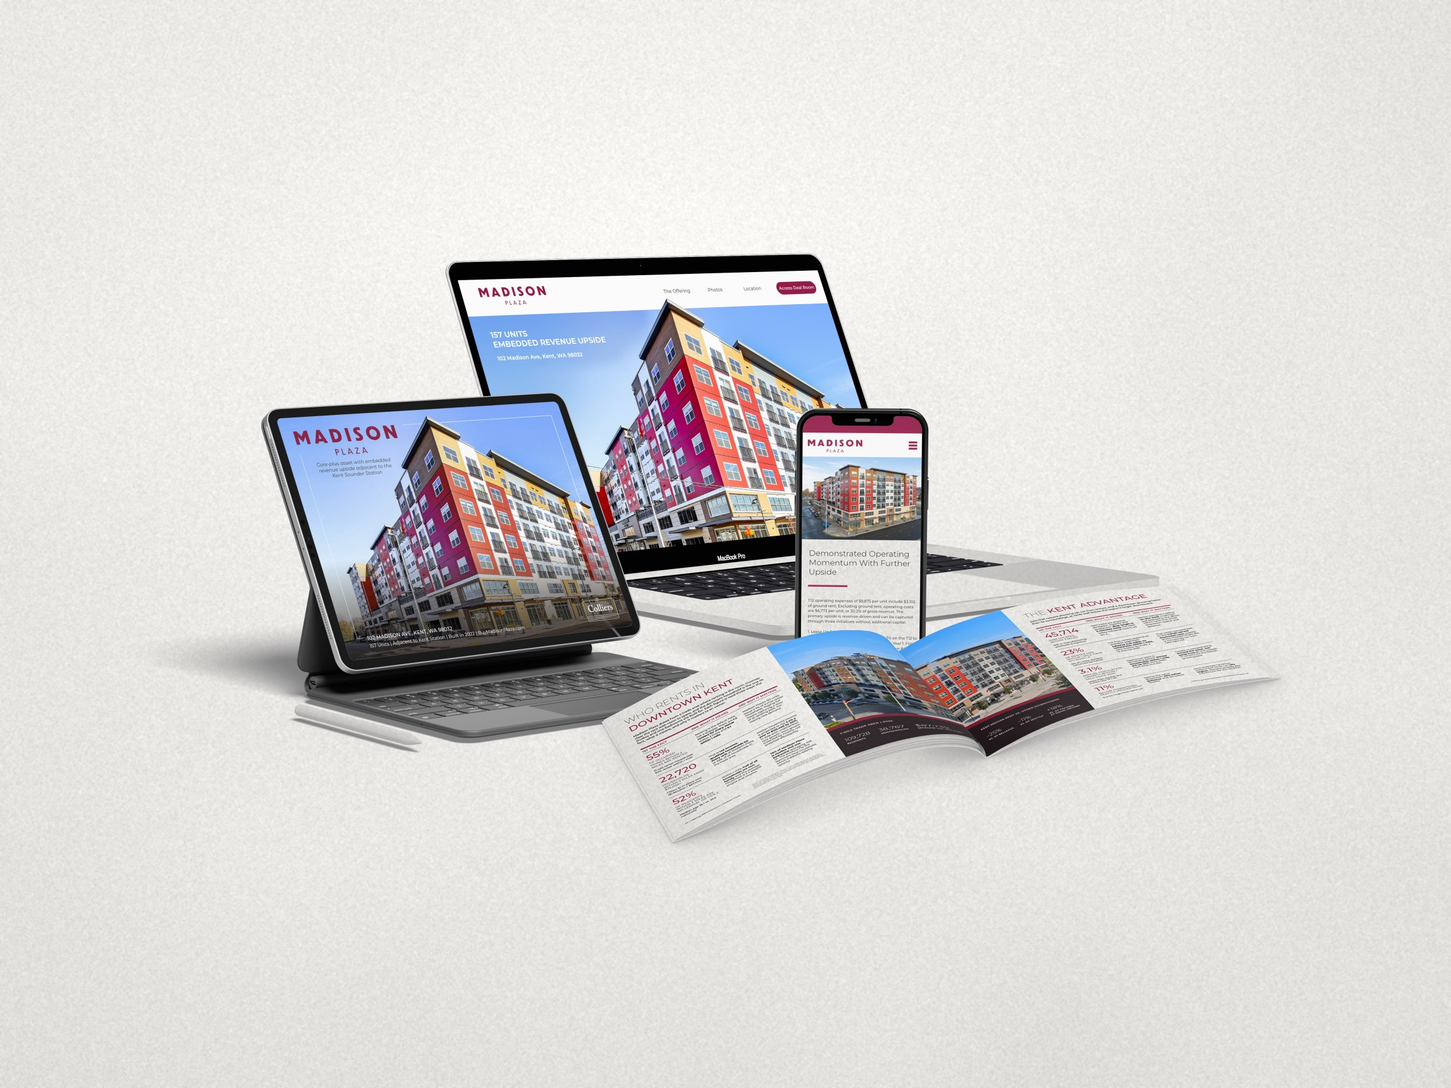
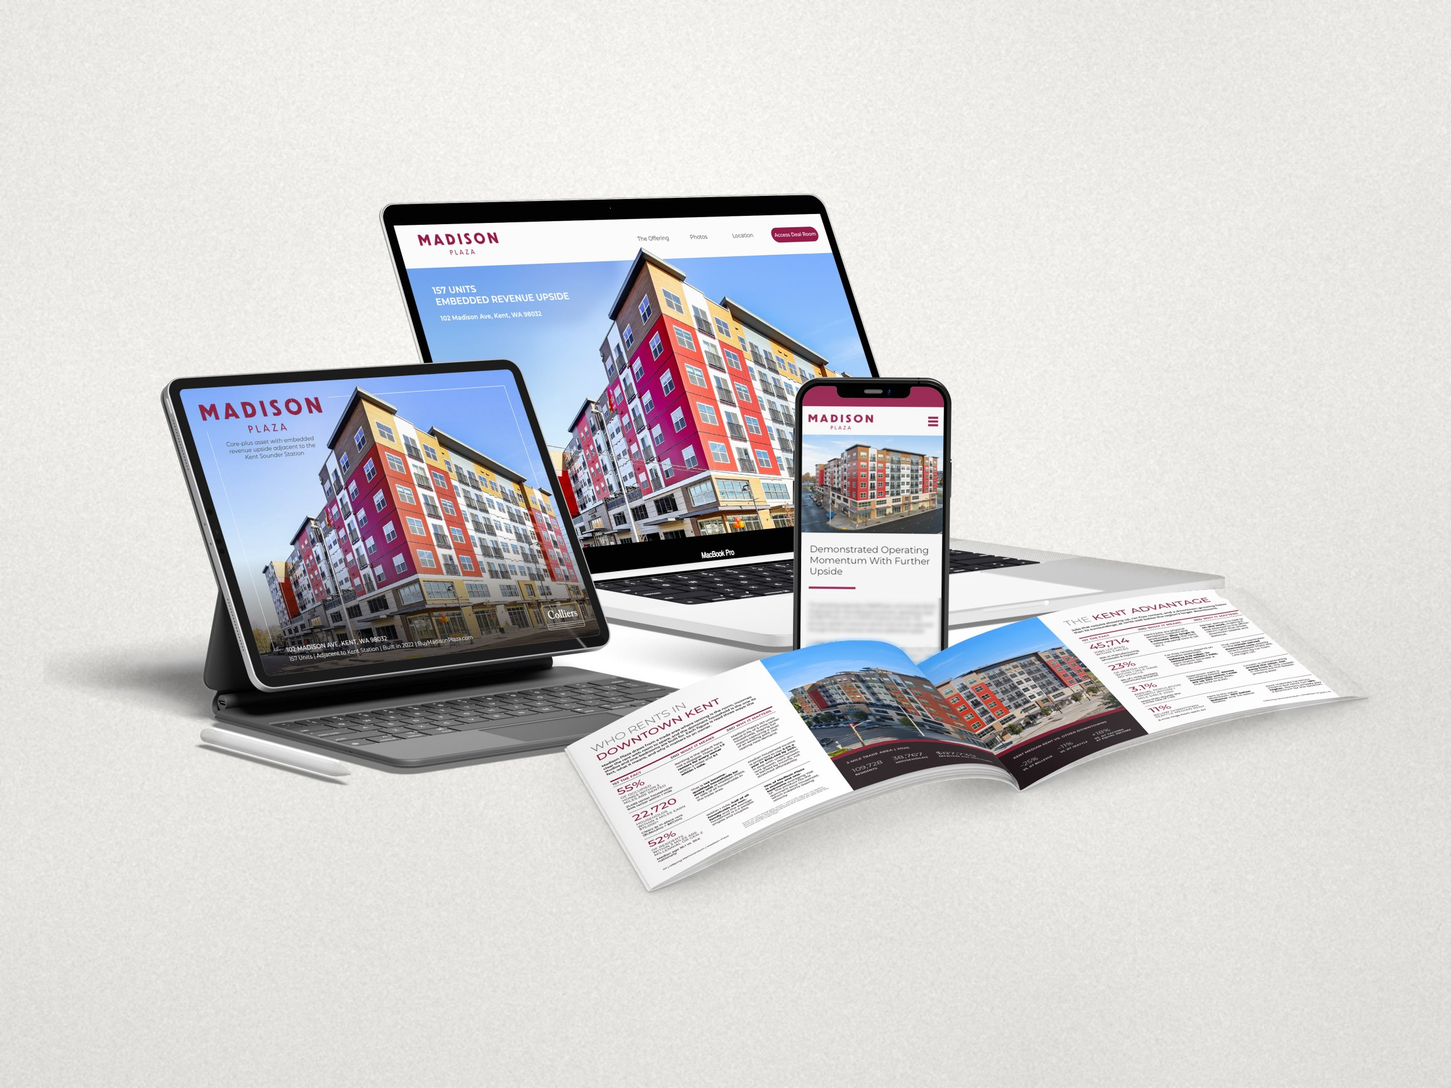
Madison takes the big home slot (white devices/pages on textured stone, only the backdrop recoloured); Nomad moves to the square with Rodrigo's cover-on-stone thumbnail

Changed region(s): [[0.0312, 0.1562, 0.9375, 0.8438]]

diff --git a/index.html b/index.html
@@ -31,11 +31,11 @@
 <div class="grid2 mt64"><a class="card" href="work/the-grid.html" data-name="Project Card / The Grid (Kirkland 405)"><div class="ph "><img src="assets/img/the-grid/card.jpg" alt="The Grid (Kirkland 405) — project image" width="1647" height="1235" decoding="async"></div>
 <div class="meta"><div class="col"><span class="s">The Grid (Kirkland 405)</span><span class="mono muted">Naming &amp; Brand Identity · Kirkland, WA</span></div><span class="mono">2025</span></div></a><a class="card" href="work/pacific-center.html" data-name="Project Card / Pacific Center"><div class="ph "><img src="assets/img/pacific-center/hero.jpg" alt="Pacific Center — project image" width="2304" height="1728" decoding="async"></div>
 <div class="meta"><div class="col"><span class="s">Pacific Center</span><span class="mono muted">Leasing Brochure · Portland, OR</span></div><span class="mono">2026</span></div></a></div>
-<div class="mt64"><a class="card" href="work/nomad.html" data-name="Project Card / Nomad"><div class="ph r169"><img src="assets/img/nomad/hero.jpg" alt="Nomad — project image" width="1800" height="1012" decoding="async"></div>
-<div class="meta"><div class="col"><span class="s">Nomad</span><span class="mono muted">Investor Offering Package · Overlook, North Portland, OR</span></div><span class="mono">2026</span></div></a></div>
-<div class="grid2 mt64"><a class="card" href="work/leftbank.html" data-name="Project Card / The Leftbank Project"><div class="ph "><img src="assets/img/leftbank/hero.jpg" alt="The Leftbank Project — project image" width="2304" height="1728" decoding="async"></div>
-<div class="meta"><div class="col"><span class="s">The Leftbank Project</span><span class="mono muted">Digital Leasing Brochure · Portland, OR</span></div><span class="mono">2026</span></div></a><a class="card" href="work/madison-plaza.html" data-name="Project Card / Madison Plaza"><div class="ph "><img src="assets/img/madison-plaza/card.jpg" alt="Madison Plaza — project image" width="2304" height="1728" decoding="async"></div>
+<div class="mt64"><a class="card" href="work/madison-plaza.html" data-name="Project Card / Madison Plaza"><div class="ph r169"><img src="assets/img/madison-plaza/card-wide.jpg" alt="Madison Plaza — project image" width="2400" height="1350" decoding="async"></div>
 <div class="meta"><div class="col"><span class="s">Madison Plaza</span><span class="mono muted">Investor Offering Package · Kent, WA</span></div><span class="mono">2026</span></div></a></div>
+<div class="grid2 mt64"><a class="card" href="work/leftbank.html" data-name="Project Card / The Leftbank Project"><div class="ph "><img src="assets/img/leftbank/hero.jpg" alt="The Leftbank Project — project image" width="2304" height="1728" decoding="async"></div>
+<div class="meta"><div class="col"><span class="s">The Leftbank Project</span><span class="mono muted">Digital Leasing Brochure · Portland, OR</span></div><span class="mono">2026</span></div></a><a class="card" href="work/nomad.html" data-name="Project Card / Nomad"><div class="ph "><img src="assets/img/nomad/card.jpg" alt="Nomad — project image" width="1440" height="1080" decoding="async"></div>
+<div class="meta"><div class="col"><span class="s">Nomad</span><span class="mono muted">Investor Offering Package · Overlook, North Portland, OR</span></div><span class="mono">2026</span></div></a></div>
 <div class="grid2 mt64"><a class="card" href="work/springwood.html" data-name="Project Card / Springwood of Beaverton"><div class="ph "><img src="assets/img/springwood/hero.jpg" alt="Springwood of Beaverton — project image" width="2304" height="1728" decoding="async"></div>
 <div class="meta"><div class="col"><span class="s">Springwood of Beaverton</span><span class="mono muted">Digital Offering Memorandum · Beaverton, OR</span></div><span class="mono">2026</span></div></a><a class="card" href="work/pointe-at-bridgeport.html" data-name="Project Card / The Pointe at Bridgeport"><div class="ph "><img src="assets/img/pointe-at-bridgeport/hero.jpg" alt="The Pointe at Bridgeport — project image" width="2304" height="1728" decoding="async"></div>
 <div class="meta"><div class="col"><span class="s">The Pointe at Bridgeport</span><span class="mono muted">Leasing Flyer · Tualatin, OR</span></div><span class="mono">2026</span></div></a></div>

diff --git a/works.html b/works.html
@@ -18,7 +18,7 @@
 <div class="sec-head clean"><div class="col gap16"><span class="mono muted">[01] (10)</span><h2 class="xl">Real Estate</h2></div><p class="bm muted intro">Leasing brochures, offering memorandums, branding, and digital marketing for commercial real estate — strategy and execution, from first concept to launch.</p></div>
 <div class="grid2"><a class="card" href="work/pdx-west.html" data-name="Project Card / PDX West Logistics Center"><div class="ph "><img src="assets/img/pdx-west/card.jpg" alt="PDX West Logistics Center — project image" width="2304" height="1728" decoding="async"></div>
 <div class="meta"><div class="col"><span class="s">PDX West Logistics Center</span><span class="mono muted">Digital Leasing Brochure · Portland, OR</span></div><span class="mono">2026</span></div></a><a class="card" href="work/kress-building.html" data-name="Project Card / Kress Building"><div class="ph "><img src="assets/img/kress-building/hero.jpg" alt="Kress Building — project image" width="2304" height="1728" decoding="async"></div>
-<div class="meta"><div class="col"><span class="s">Kress Building</span><span class="mono muted">Digital Leasing Brochure · Portland, OR</span></div><span class="mono">2026</span></div></a><a class="card" href="work/nomad.html" data-name="Project Card / Nomad"><div class="ph "><img src="assets/img/nomad/hero.jpg" alt="Nomad — project image" width="1800" height="1012" decoding="async"></div>
+<div class="meta"><div class="col"><span class="s">Kress Building</span><span class="mono muted">Digital Leasing Brochure · Portland, OR</span></div><span class="mono">2026</span></div></a><a class="card" href="work/nomad.html" data-name="Project Card / Nomad"><div class="ph "><img src="assets/img/nomad/card.jpg" alt="Nomad — project image" width="1440" height="1080" decoding="async"></div>
 <div class="meta"><div class="col"><span class="s">Nomad</span><span class="mono muted">Investor Offering Package · Overlook, North Portland, OR</span></div><span class="mono">2026</span></div></a><a class="card" href="work/the-grid.html" data-name="Project Card / The Grid (Kirkland 405)"><div class="ph "><img src="assets/img/the-grid/card.jpg" alt="The Grid (Kirkland 405) — project image" width="1647" height="1235" decoding="async"></div>
 <div class="meta"><div class="col"><span class="s">The Grid (Kirkland 405)</span><span class="mono muted">Naming &amp; Brand Identity · Kirkland, WA</span></div><span class="mono">2025</span></div></a><a class="card" href="work/pacific-center.html" data-name="Project Card / Pacific Center"><div class="ph "><img src="assets/img/pacific-center/hero.jpg" alt="Pacific Center — project image" width="2304" height="1728" decoding="async"></div>
 <div class="meta"><div class="col"><span class="s">Pacific Center</span><span class="mono muted">Leasing Brochure · Portland, OR</span></div><span class="mono">2026</span></div></a><a class="card" href="work/leftbank.html" data-name="Project Card / The Leftbank Project"><div class="ph "><img src="assets/img/leftbank/hero.jpg" alt="The Leftbank Project — project image" width="2304" height="1728" decoding="async"></div>

diff --git a/work/kress-building.html b/work/kress-building.html
@@ -22,7 +22,7 @@
 <div class="tab-dots" aria-hidden="true"><i class="on"></i><i></i><i></i><i></i><i></i><i></i><i></i><i></i><i></i><i></i></div>
 <div class="tab-foot"><span class="mono-s tab-hint"><span class="hd">Swipe or drag the page, click its edge, or use the <span class="kb">←</span> <span class="kb">→</span> keys</span><span class="hm">Swipe the screen or tap the arrows</span></span></div><p class="mono-s tab-note">The asking rate is blurred; the brochure carries no other financial information.</p></div></div></div></div></section><section class="case-next" data-name="Next Project"><div class="wrap cg8">
 <div class="cn-head"><h2 class="cn-title">Next Project</h2><a class="btn sec sm" href="../works.html">All Works <span aria-hidden="true">→</span></a></div>
-<a class="cn-card" href="../work/nomad.html"><div class="ph"><img src="../assets/img/nomad/hero.jpg" alt="Nomad" width="1800" height="1012" decoding="async"></div>
+<a class="cn-card" href="../work/nomad.html"><div class="ph"><img src="../assets/img/nomad/card.jpg" alt="Nomad" width="1440" height="1080" decoding="async"></div>
 <div class="cn-meta"><span class="mono-s">Nomad</span><span class="mono-s">2026</span></div></a>
 </div></section></main>
 <footer class="foot dark" data-name="Footer CTA">

diff --git a/_src/madison_card.py b/_src/madison_card.py
@@ -1,45 +1,86 @@
-"""Madison Plaza home/works card (Nov 23, Rodrigo): his device + brochure mockup (white background, also the case hero,
-which stays untouched) set on the shared cream surface, the whole composition fitted inside the 4:3 card with padding.
-Light pixels are multiplied onto the cream (backdrop, shadows, paper, aluminium); device screens are kept exact.
-Writes assets/img/madison-plaza/card.jpg (build.card_img prefers card.jpg over hero.jpg)."""
+"""Madison Plaza cards (Rodrigo t79u, Nov 23): his device + brochure mockup (white background; also the case hero, which
+stays untouched) on the textured pale-stone surface. ONLY the background takes the stone: the devices, screens and
+brochure pages are copied exactly (pure white stays white — no multiply on the object). The object is separated from
+the white backdrop by an edge-closed, border-connected mask; the backdrop (and its soft grey shadows) is multiplied
+onto the stone, so the original shadows land on it. A short ramp just inside the mask edge lets shadow-grey (never
+page-white, >= 242) blend into the stone so no seam shows.
+Writes assets/img/madison-plaza/card-wide.jpg (16:9, home big slot) and card.jpg (4:3, works index)."""
 import os, cv2, numpy as np
 from PIL import Image
 import flyer_mockups as F
 ROOT = os.path.dirname(os.path.dirname(os.path.abspath(__file__)))
 SRC = '/workspace/lauren-case-studies/mockups/madison-plaza_hero-override.jpg'
-W, H = F.W, F.H          # 2304 x 1728 (4:3)
-FILL = 0.88              # composition width as a share of the card
 
-def bg_weight(a):
-    """Multiply weight (1 = takes the cream fully). Backdrop and soft shadows: 1. Device screens (regions enclosed by
-    their dark bezels): 0, so the screens stay true. Everything else (printed pages, aluminium, pencil): by lightness, so
-    white surfaces pick up the same ambient cream and no cut-out edges or halos appear."""
-    b = cv2.resize(a, None, fx=.5, fy=.5, interpolation=cv2.INTER_AREA)
-    g = cv2.cvtColor(b, cv2.COLOR_BGR2GRAY).astype(np.float32)
-    dark = (g < 90).astype(np.uint8)                                   # bezels / keyboard
-    dark = cv2.morphologyEx(dark, cv2.MORPH_CLOSE, np.ones((5, 5), np.uint8))
-    h, w = dark.shape; f = dark.copy(); cv2.floodFill(f, np.zeros((h + 2, w + 2), np.uint8), (0, 0), 1)
-    holes = ((1 - f) > 0).astype(np.uint8)                             # enclosed by dark = screens
-    n, lab, st, _ = cv2.connectedComponentsWithStats(holes)
-    scr = np.isin(lab, [i for i in range(1, n) if st[i, cv2.CC_STAT_AREA] > 20000])
-    wgt = np.clip((g - 150) / 90, 0, 1)
-    wgt[scr] = 0
-    wgt = cv2.GaussianBlur(wgt, (0, 0), 1.2)
-    return cv2.resize(wgt, (a.shape[1], a.shape[0]), interpolation=cv2.INTER_LINEAR)[..., None]
+def object_weight(a):
+    """1 = keep exact pixel (object), 0 = backdrop (multiply onto stone)."""
+    s = cv2.resize(a, None, fx=.5, fy=.5, interpolation=cv2.INTER_AREA)
+    g = cv2.cvtColor(s, cv2.COLOR_BGR2GRAY).astype(np.float32)
+    gb = cv2.GaussianBlur(g, (0, 0), 0.8)
+    mag = np.hypot(cv2.Sobel(gb, cv2.CV_32F, 1, 0), cv2.Sobel(gb, cv2.CV_32F, 0, 1))
+    e = ((mag > 16) | (g < 120)).astype(np.uint8)
+    e = cv2.morphologyEx(e, cv2.MORPH_CLOSE, np.ones((7, 7), np.uint8))
+    n, lab, st, _ = cv2.connectedComponentsWithStats((1 - e).astype(np.uint8), connectivity=4)
+    border = set(lab[0, :]) | set(lab[-1, :]) | set(lab[:, 0]) | set(lab[:, -1]); border.discard(0)
+    obj = (~np.isin(lab, list(border))).astype(np.uint8)
+    n2, l2, s2, _ = cv2.connectedComponentsWithStats(obj)
+    obj = np.isin(l2, [i for i in range(1, n2) if s2[i, 4] > 4000]).astype(np.uint8)
+    obj = cv2.resize(obj, (a.shape[1], a.shape[0]), interpolation=cv2.INTER_NEAREST)
+    G = cv2.cvtColor(a, cv2.COLOR_BGR2GRAY).astype(np.float32)
+    dist = cv2.distanceTransform(obj, cv2.DIST_L2, 5)
+    ramp = np.clip(dist / 40.0, 0, 1)                       # 0 at the mask edge -> 1 at 40 px inside
+    shadowish = np.clip((242 - G) / 12, 0, 1) * np.clip((G - 120) / 40, 0, 1)
+    sat = a.max(2).astype(np.float32) - a.min(2)
+    shadowish *= np.clip((14 - sat) / 8, 0, 1)
+    # trim the closing fringe: backdrop white caught inside the mask edge (halo) is regrown into the backdrop, through
+    # white pixels only, within 24 px of the edge; page edges have a grey outline, so pages are not eaten
+    bgm = (obj == 0).astype(np.uint8); band = (dist < 40) & (obj > 0); white = G >= 236
+    for _ in range(40):
+        grow = cv2.dilate(bgm, np.ones((3, 3), np.uint8)).astype(bool) & band & white
+        if not (grow & (bgm == 0)).any(): break
+        bgm = (bgm.astype(bool) | grow).astype(np.uint8)
+    obj = (bgm == 0).astype(np.uint8)
+    dist = cv2.distanceTransform(obj, cv2.DIST_L2, 5); ramp = np.clip(dist / 40.0, 0, 1)
+    w = obj * (1 - (1 - ramp) * shadowish)
+    w = cv2.GaussianBlur(w.astype(np.float32), (0, 0), 1.0)
+    w[(obj > 0) & (G >= 242)] = 1                           # page/screen white is never tinted
+    return w, obj
 
-def main():
-    a = cv2.imread(SRC)
-    wgt = bg_weight(a)
-    k = W * FILL / a.shape[1]
-    if a.shape[0] * k > H * FILL: k = H * FILL / a.shape[0]
+def compose(a, w, obj, W, H, fill, seed, light):
+    ys, xs = np.where(obj > 0)
+    pad = int(0.025 * a.shape[1])
+    x0, x1 = max(0, xs.min() - pad), min(a.shape[1], xs.max() + pad)
+    y0, y1 = max(0, ys.min() - pad), min(a.shape[0], ys.max() + pad)
+    a, w = a[y0:y1, x0:x1], w[y0:y1, x0:x1]
+    k = min(W * fill / a.shape[1], H * fill / a.shape[0])
     nw, nh = int(a.shape[1] * k), int(a.shape[0] * k)
     a = cv2.resize(a, (nw, nh), interpolation=cv2.INTER_AREA).astype(np.float32)
-    wgt = cv2.resize(wgt[..., 0], (nw, nh), interpolation=cv2.INTER_AREA)[..., None]
-    cv = np.asarray(F.surface(seed=11, light=(0.45, 0.25)), np.float32)[..., ::-1].copy()   # BGR
-    x, y = (W - nw) // 2, (H - nh) // 2 + int(H * 0.01)
+    w = cv2.resize(w, (nw, nh), interpolation=cv2.INTER_AREA)[..., None]
+    F.W, F.H = W, H
+    cv = np.asarray(F.surface(seed=seed, light=light), np.float32)[..., ::-1].copy()   # BGR
+    F.W, F.H = 2304, 1728
+    x, y = (W - nw) // 2, (H - nh) // 2
     reg = cv[y:y + nh, x:x + nw]
-    cv[y:y + nh, x:x + nw] = wgt * (reg * a / 255.0) + (1 - wgt) * a
-    out = os.path.join(ROOT, 'assets/img/madison-plaza/card.jpg')
-    Image.fromarray(np.clip(cv, 0, 255).astype(np.uint8)[..., ::-1]).save(out, quality=86, optimize=True, progressive=True)
-    print('madison card', out, (W, H))
+    cv[y:y + nh, x:x + nw] = (1 - w) * (reg * a / 255.0) + w * a
+    return Image.fromarray(np.clip(cv, 0, 255).astype(np.uint8)[..., ::-1])
+
+# Financials (CONFIDENTIALITY: Madison p08 operating text is blurred in the flip-book) — the phone screen shows the same
+# opex paragraph ("T12 operating expenses of $9,875 per unit ...") and is now large enough to read, so it is blurred
+# here too; only neutral (text-on-white) pixels inside the rectangles, so the brochure's sky/photo is untouched.
+BLUR = [(2766, 1452, 3214, 1618), (3050, 1612, 3214, 1700)]
+def blur_financials(a):
+    for x0, y0, x1, y1 in BLUR:
+        r = a[y0:y1, x0:x1].astype(np.float32)
+        b = cv2.GaussianBlur(r, (0, 0), 7)
+        sat = r.max(2) - r.min(2)
+        m = cv2.GaussianBlur(((sat < 22) & (r.mean(2) > 40)).astype(np.float32), (0, 0), 2)[..., None]
+        a[y0:y1, x0:x1] = np.clip(m * b + (1 - m) * r, 0, 255).astype(np.uint8)
+    return a
+
+def main():
+    a = blur_financials(cv2.imread(SRC))
+    w, obj = object_weight(a)
+    d = os.path.join(ROOT, 'assets/img/madison-plaza')
+    compose(a, w, obj, 2400, 1350, 0.94, 11, (0.45, 0.25)).save(os.path.join(d, 'card-wide.jpg'), quality=88, optimize=True, progressive=True)
+    compose(a, w, obj, 2304, 1728, 0.94, 12, (0.45, 0.25)).save(os.path.join(d, 'card.jpg'), quality=88, optimize=True, progressive=True)
+    print('madison cards', d)
 if __name__ == '__main__': main()

diff --git a/_src/confidentiality.py b/_src/confidentiality.py
@@ -19,7 +19,7 @@ LOG = {
  'pacific-center': dict(note='', blurred=['none — Nov 23 flip-book: all 12 printed pages checked; no pricing, rents or operating figures (availabilities = suite numbers + SF only)'], omitted=['nothing — cover, spreads pp. 2–11 and back cover (broker contacts readable: not financial) all shown']),
  'leftbank': dict(note=NOTE_NONE, blurred=['none — pages 1–7 checked: no rents, prices or deal figures; only the 500–6,500+ SF space range. Page 7 (back cover, leasing team contacts) is shown — front-page content, not financial (Rodrigo, Nov 23)'], omitted=[]),
  'madison-plaza': dict(note='Section 03 Financials (pages 24–33) is left out; contacts and deal figures elsewhere are blurred.',
-    blurred=['p02 broker names, emails and phones','p07 offering bullets (price guidance, NOI, lender)','p08 operating text (opex, in-place vs market rents, NOI upside)','p10–11 ground-rent and MFTE savings text','p40 "Clears 3x in-place rent ($1,864/mo …)" line','back cover broker names, emails and phones'],
+    blurred=['p02 broker names, emails and phones','p07 offering bullets (price guidance, NOI, lender)','p08 operating text (opex, in-place vs market rents, NOI upside)','p10–11 ground-rent and MFTE savings text','p40 "Clears 3x in-place rent ($1,864/mo …)" line','back cover broker names, emails and phones','home/works card: the phone screen opex paragraph (same p08 text; the case hero is Rodrigo\'s untouched original)'],
     omitted=['PDF pages 13–17 = printed pp. 24–33 (unit mix & market rents, tax bill, income & expenses, pro forma notes, 10-year cash flow, rent comparables); replaced in the flip-book by a black "Confidential — financial information omitted" spread right after the 03 The Financials divider (pp. 22–23, kept)']),
  'redmond-gateway': dict(note=STD,
     blurred=['p03/p04 parcel pages: paragraph naming the owners and tenant lease dates'],

diff --git a/_src/images.py b/_src/images.py
@@ -100,7 +100,12 @@ def main():
     import pacific_book; pacific_book.main()
     import flyer_sheets; flyer_sheets.main()
     sys.path.insert(0, os.path.join(os.path.dirname(__file__), 'grid')); import grid_assets; grid_assets.main()   # The Grid identity case
-    import madison_card; madison_card.main()   # Madison home/works card on the shared cream (hero stays Rodrigo's white original)
+    import madison_card; madison_card.main()
+    # Nomad home/works card (Rodrigo t79u): his cover-on-stone image, used as is — the white screenshot border trimmed,
+    # the stone frame (~4:3) kept whole, resized to the card size
+    _n = Image.open(os.path.join(os.path.dirname(os.path.abspath(__file__)), 'nomad_card_src.png')).convert('RGB')
+    _n = _n.crop((53, 44, 1172, 879)).resize((1440, 1080), Image.LANCZOS)
+    _n.save(os.path.join(OUT, 'nomad', 'card.jpg'), quality=90, optimize=True, progressive=True)   # Madison home/works card on the shared cream (hero stays Rodrigo's white original)
     os.makedirs(os.path.join(OUT, 'ui'), exist_ok=True); import flyer_mockups as FM; FM.surface(seed=7, light=(0.5, 0.15)).resize((1600, 1200), Image.LANCZOS).save(os.path.join(OUT, 'ui', 'stone-surface.jpg'), quality=84, optimize=True, progressive=True)   # iPad viewer stage: textured pale stone (t78u)
     import runpy; runpy.run_path(os.path.join(os.path.dirname(__file__),'desk_texture.py'))   # ui/desk-charcoal.jpg (OUT is wiped above)
     sys.path.insert(0, os.path.join(os.path.dirname(__file__), 'bigpink')); import bp_assets; bp_assets.main()   # Big Pink (OnePink identity + Ceros laptop) and Marketplace

diff --git a/_src/build.py b/_src/build.py
@@ -116,8 +116,8 @@ def home():
 <div class="grid2">{card(R["pdx-west"], r)}{card(R["kress-building"], r)}</div>
 <div class="mt64">{card(BY["big-pink"], r, "r169", src="assets/img/big-pink/card-wide.jpg")}</div>
 <div class="grid2 mt64">{card(R["the-grid"], r)}{card(R["pacific-center"], r)}</div>
-<div class="mt64">{card(R["nomad"], r, "r169")}</div>
-<div class="grid2 mt64">{card(R["leftbank"], r)}{card(R["madison-plaza"], r)}</div>
+<div class="mt64">{card(R["madison-plaza"], r, "r169", src="assets/img/madison-plaza/card-wide.jpg")}</div>
+<div class="grid2 mt64">{card(R["leftbank"], r)}{card(R["nomad"], r)}</div>
 <div class="grid2 mt64">{card(R["springwood"], r)}{card(R["pointe-at-bridgeport"], r)}</div>
 <div class="row mt64" style="justify-content:space-between;align-items:center;flex-wrap:wrap;gap:16px"><p class="mono-s muted">{T(H["re_note"])}</p>{btn("All Real Estate work", "works.html#real-estate", "sec")}</div>
 </section>

diff --git a/AI-HANDOFF.md b/AI-HANDOFF.md
@@ -174,3 +174,14 @@ Read this first if you are an AI assistant (Claude, ChatGPT, Cursor, etc.) conti
   pointer line deleted; works index Interactive now lists only Big Pink). Sources kept: `bp_assets.marketplace_assets()`
   (not called), `/workspace/bigpink/rendered/marketplace-*.jpg`, the confidentiality LOG entry.
 - Note: the page background (`--paper` #F2F2F2) was never changed; only mockup/viewer surfaces are #ECEAE6.
+
+## Madison takes the big slot, Nomad the square (Rodrigo t79u, Nov 23 PM)
+- Home Real Estate order: PDX + Kress → Big Pink (wide) → The Grid + Pacific → **Madison (wide, `card-wide.jpg`)** →
+  Leftbank + **Nomad** → Springwood + Pointe.
+- `_src/madison_card.py` rewritten (old multiply version: `/workspace/mk/madison_card.py.multiply-nov23`): only the
+  backdrop takes the textured stone; devices, screens and brochure pages are copied exactly (whites stay 255). Object mask =
+  edge-closed, border-connected region of the white-background hero source, halo trimmed by regrowing the backdrop
+  through white pixels; backdrop + its soft shadows are multiplied onto `flyer_mockups.surface()`. Writes card-wide.jpg
+  (2400×1350, group 94% wide) and card.jpg (4:3, works index). The phone's opex paragraph is blurred (financial, = p08).
+- Nomad card = Rodrigo's cover-on-stone image `_src/nomad_card_src.png`, white screenshot border trimmed, resized to
+  1440×1080 → `assets/img/nomad/card.jpg` (images.py; home + works). Source is only ~1120 px wide. Nomad hero unchanged.

diff --git a/CONFIDENTIALITY.md b/CONFIDENTIALITY.md
@@ -36,7 +36,7 @@ Rule: leave anything confidential out; if leaving it out would look bad, blur it
 
 ## Madison Plaza
 
-- **Blurred:** p02 broker names, emails and phones; p07 offering bullets (price guidance, NOI, lender); p08 operating text (opex, in-place vs market rents, NOI upside); p10–11 ground-rent and MFTE savings text; p40 "Clears 3x in-place rent ($1,864/mo …)" line; back cover broker names, emails and phones
+- **Blurred:** p02 broker names, emails and phones; p07 offering bullets (price guidance, NOI, lender); p08 operating text (opex, in-place vs market rents, NOI upside); p10–11 ground-rent and MFTE savings text; p40 "Clears 3x in-place rent ($1,864/mo …)" line; back cover broker names, emails and phones; home/works card: the phone screen opex paragraph (same p08 text; the case hero is Rodrigo's untouched original)
 - **Omitted:** PDF pages 13–17 = printed pp. 24–33 (unit mix & market rents, tax bill, income & expenses, pro forma notes, 10-year cash flow, rent comparables); replaced in the flip-book by a black "Confidential — financial information omitted" spread right after the 03 The Financials divider (pp. 22–23, kept)
 
 ## Springwood of Beaverton
